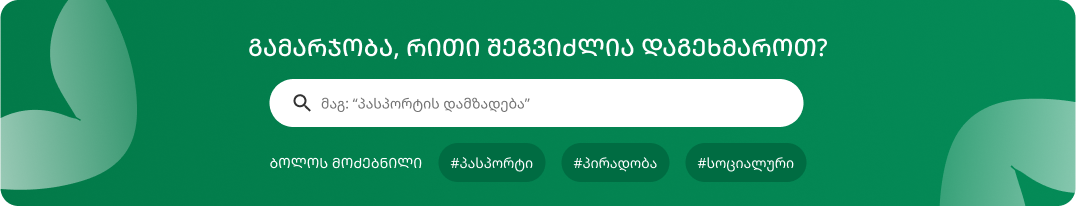
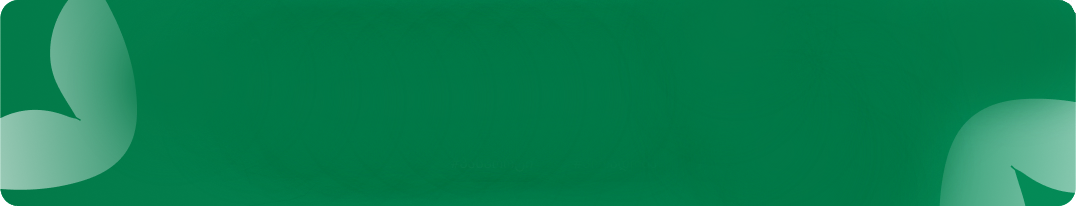
Search Bar
დაყენდა სერჩბარ სისტემა

diff --git a/styles.css b/styles.css
@@ -395,3 +395,78 @@ flex-grow: 0;
     background: #EBF6F2;
     border-radius: 18px;
   }
+  .search
+  {
+   position: relative;
+  }
+  h2
+  {
+position: absolute;
+ top: 30px;
+ left: 290px;
+ color: #FFFFFF;
+  }
+  .search-bar
+  {
+ position: absolute;
+ top: 80px;
+ left: 300px;
+ display: flex;
+ flex-direction: row;
+ align-items: center;
+ padding: 10px 24px;
+ gap: 10px;
+ 
+
+
+
+
+  }
+  #search-bar {
+    border: none;
+    display: flex;
+flex-direction: row;
+align-items: center;
+padding: 10px 24px;
+gap: 10px;
+
+border-width: 450px;
+width: 450px;
+ height: 48px;
+ 
+ background: #FFFFFF;
+ border-radius: 50px;
+ 
+ 
+ flex: none;
+ order: 0;
+ flex-grow: 0;
+ border: none;
+  outline: none;
+  }
+
+  #search-button
+{
+  position: relative;
+color: none;
+width: 17.49px;
+height: 17.49px;
+border-color: none;
+margin-right: 0px;
+
+flex: none;
+order: 0;
+flex-grow: 0;
+}#search-button {
+  border: none;
+  background-color: transparent;
+}
+#submit
+{
+  position: absolute;
+left: 30px;
+top: 25px;
+
+
+
+}

diff --git a/index.html b/index.html
@@ -27,8 +27,16 @@
         </div>
       </div>
       <div class="header-image">
-        <img src="img/Frame 11.svg" alt="">
       </div>
+      <a href=""></a>
+      <section class="search">
+      <img src="img/Frame 11.png" alt="serch bar">
+      <h2 serch>გამარჯობა, რითი შეგვიძლია დაგეხმაროთ?</h2>
+      <form class="search-bar" action="/search" method="GET">
+        <input type="text" id="search-bar" name="q" placeholder="საბუთების დამზადება.." onkeydown="if(event.keyCode==13) event.preventDefault();">
+        <a href="#" type="submit"><img src="img/Search.svg" alt="submit" id="submit"></a> 
+      </form>
+    </section>
       <hero>
         <p class="services-title"><span style="color: green;">სერვისები</span></p>
         <section>

diff --git a/script.js b/script.js
@@ -1,0 +1,13 @@
+
+  function searchKeyPress(event) {
+    if (event.keyCode === 13) { // 13 არის Enter კლავიატურის კოდი
+      event.preventDefault(); // გააჩნიათ ფორმის სტანდარტული მოქმედება (გაგრძელებს გაგზავნას)
+      performSearch(); // გაუშვით ძებნის ფუნქცია
+    }
+  }
+
+  function performSearch() {
+    var searchInput = document.getElementById('search-bar').value;
+    // აქ ჩაწერეთ ძებნის ლოგიკა თქვენი საიტისთვის
+    console.log('ძებნა:# ' + searchInput);
+  }
